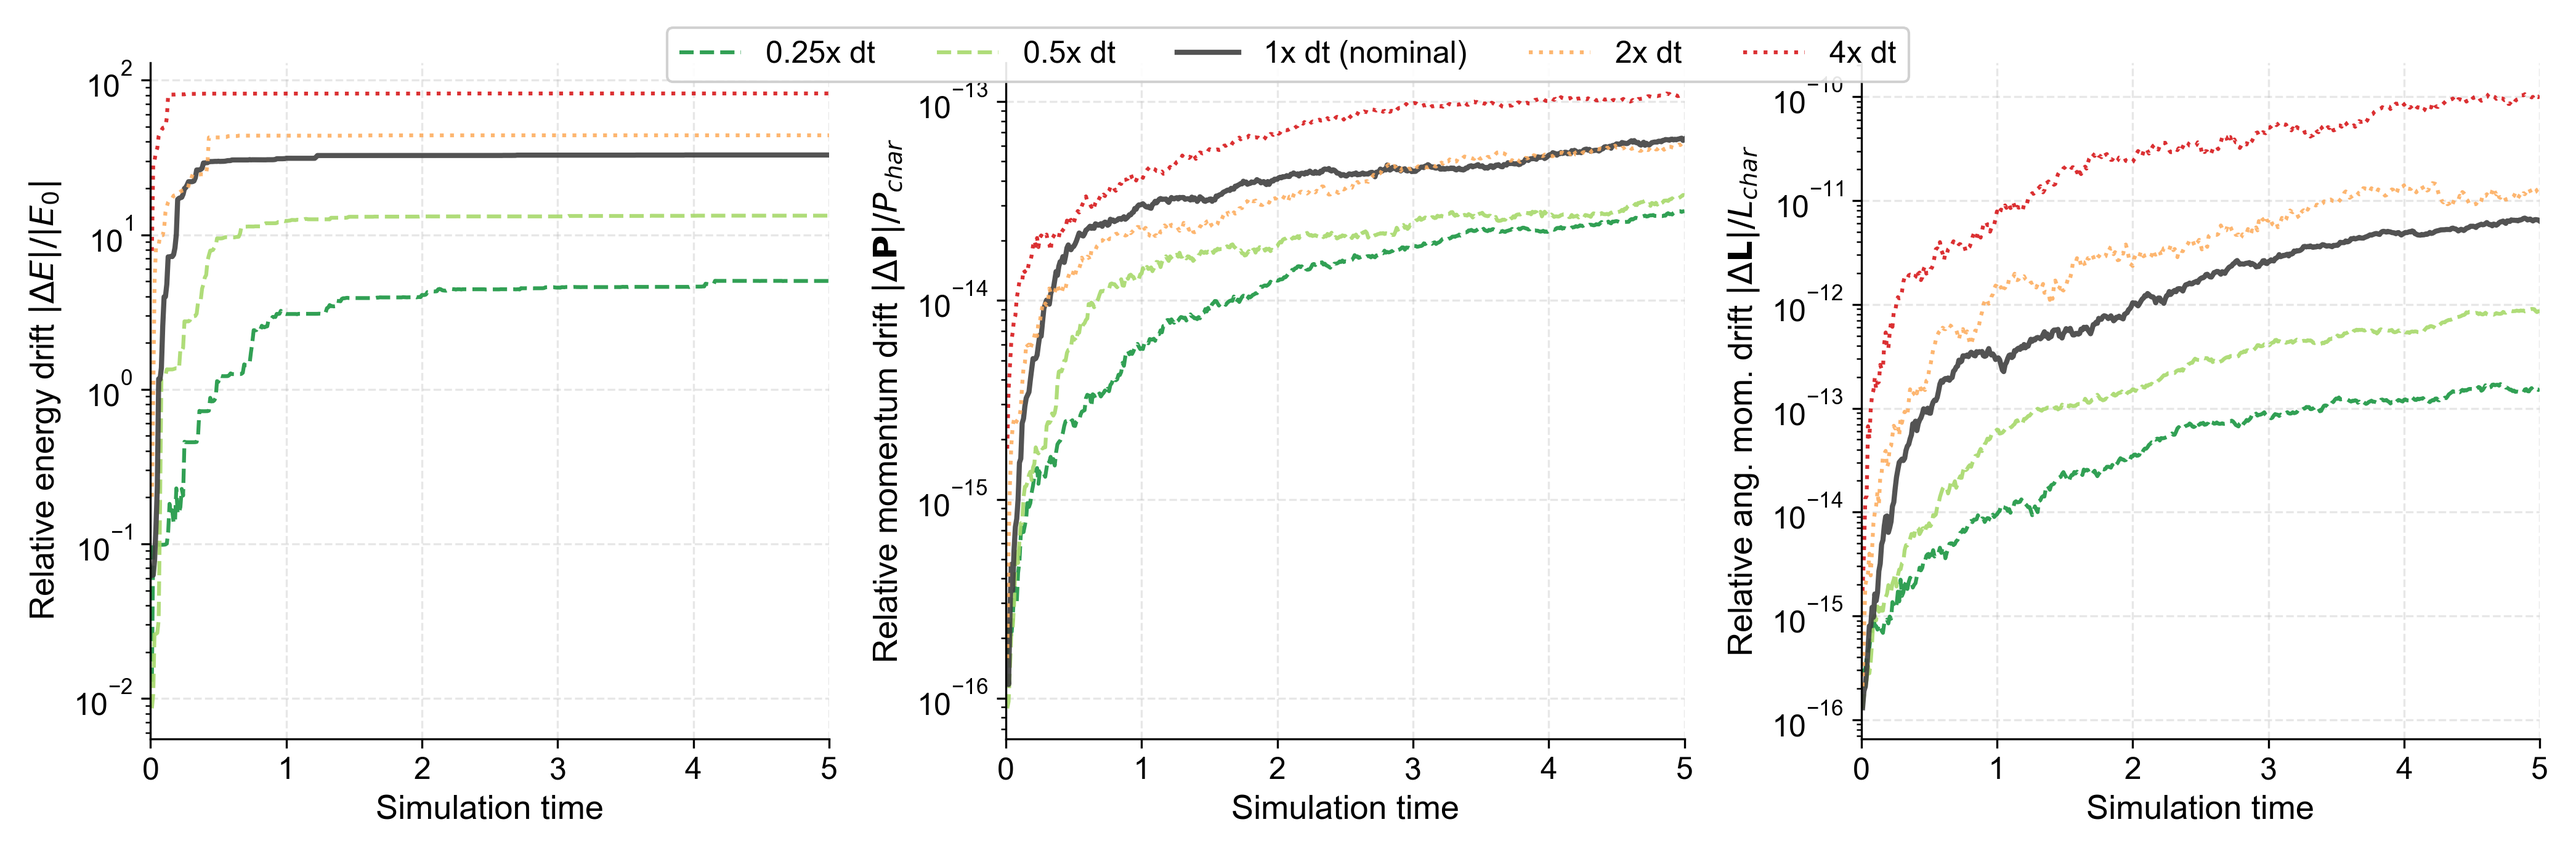
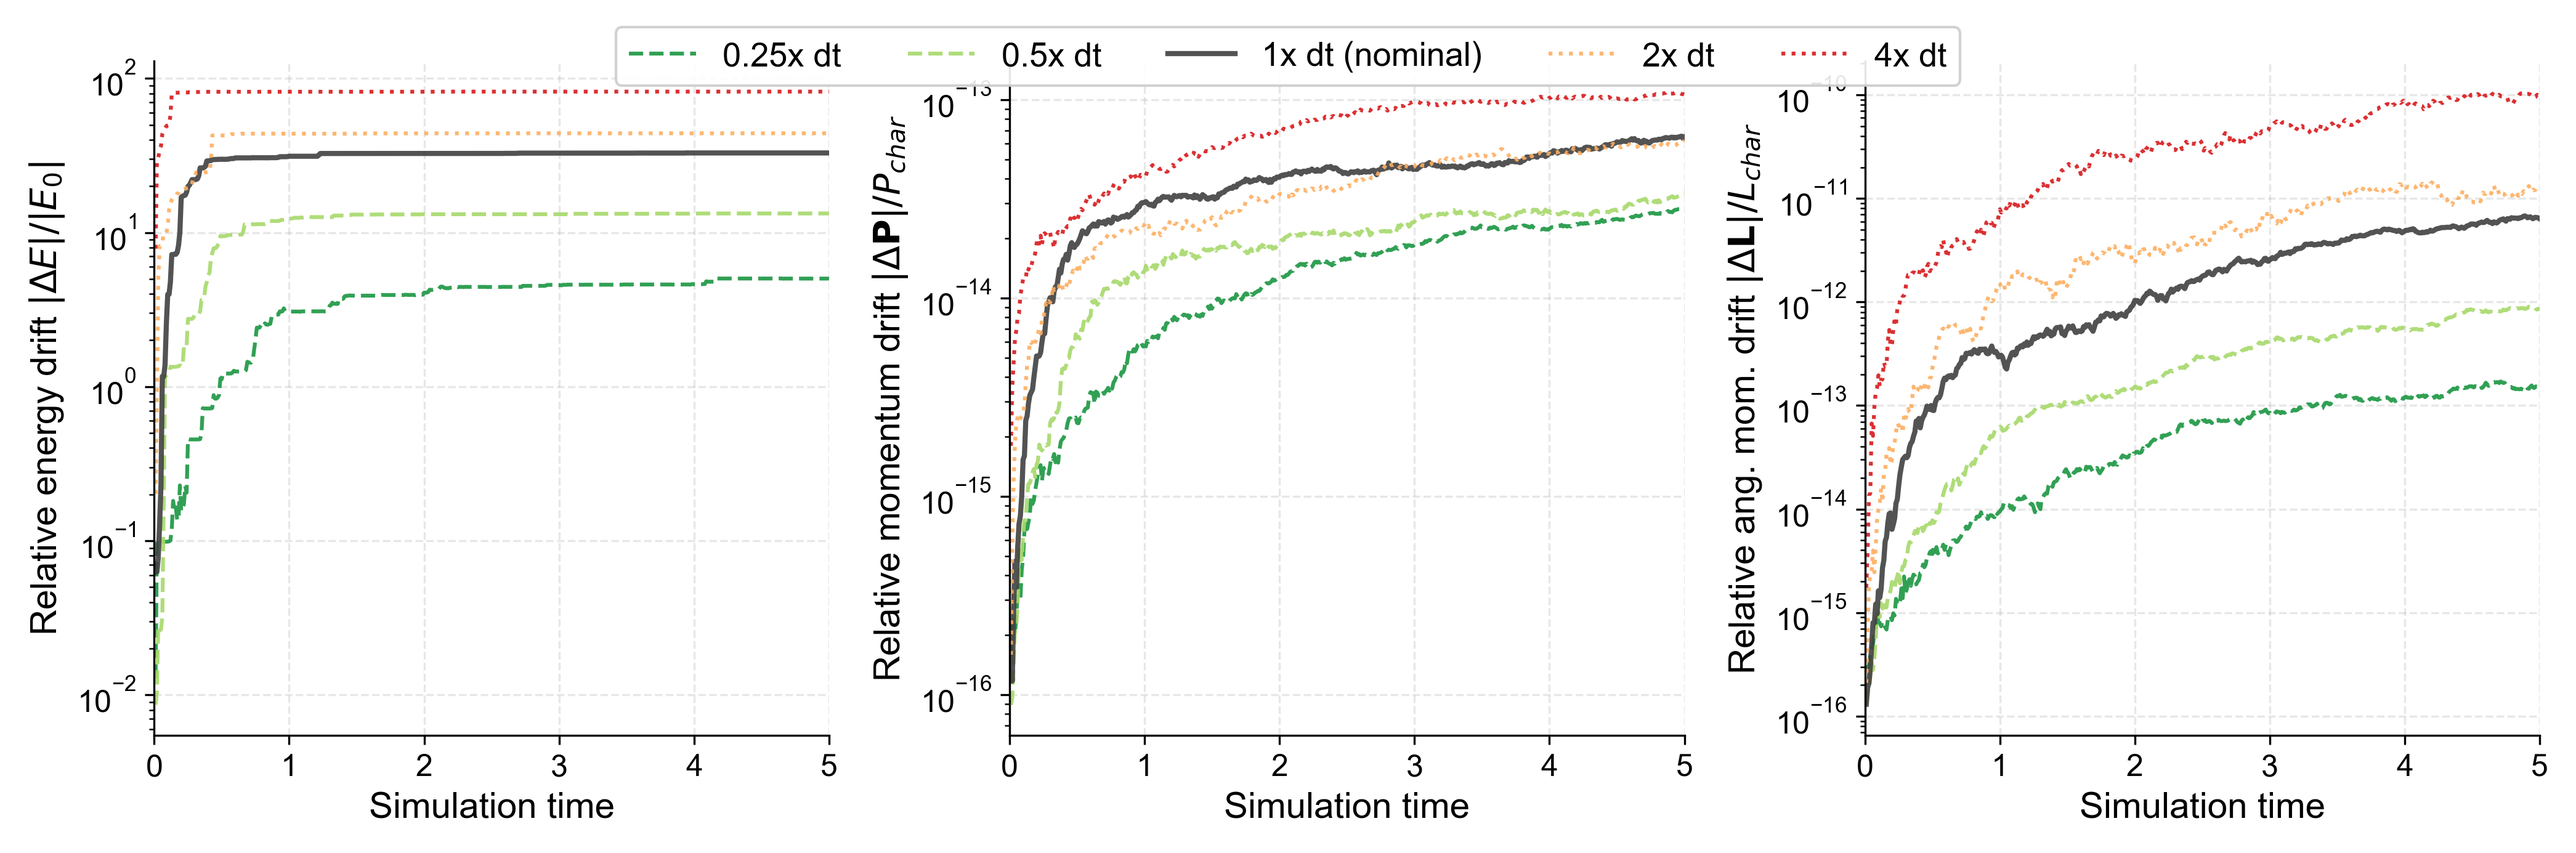
Increase Figure A1 axis label and legend font sizes
- Axis labels explicitly set to 14pt, tick labels to 12pt
- Legend increased from 12pt to 13pt for readability

diff --git a/generate_figures.py b/generate_figures.py
@@ -412,14 +412,15 @@ def fig_a1_drift(outdir, drift_data_path):
             ax.semilogy(time, drift, color=color, label=labels[mult],
                         linewidth=lw, linestyle=ls, alpha=0.9)
 
-        ax.set_xlabel('Simulation time')
-        ax.set_ylabel(ylabel)
+        ax.set_xlabel('Simulation time', fontsize=14)
+        ax.set_ylabel(ylabel, fontsize=14)
+        ax.tick_params(axis='both', labelsize=12)
         ax.set_xlim(0, n_steps * dt_nom)
         ax.grid(True, alpha=0.3, linestyle='--')
 
     handles, lbls = axes[0].get_legend_handles_labels()
     fig.legend(handles, lbls, loc='upper center', ncol=5, framealpha=0.9,
-               bbox_to_anchor=(0.5, 1.02), fontsize=12)
+               bbox_to_anchor=(0.5, 1.02), fontsize=13)
 
     fig.tight_layout()
 
